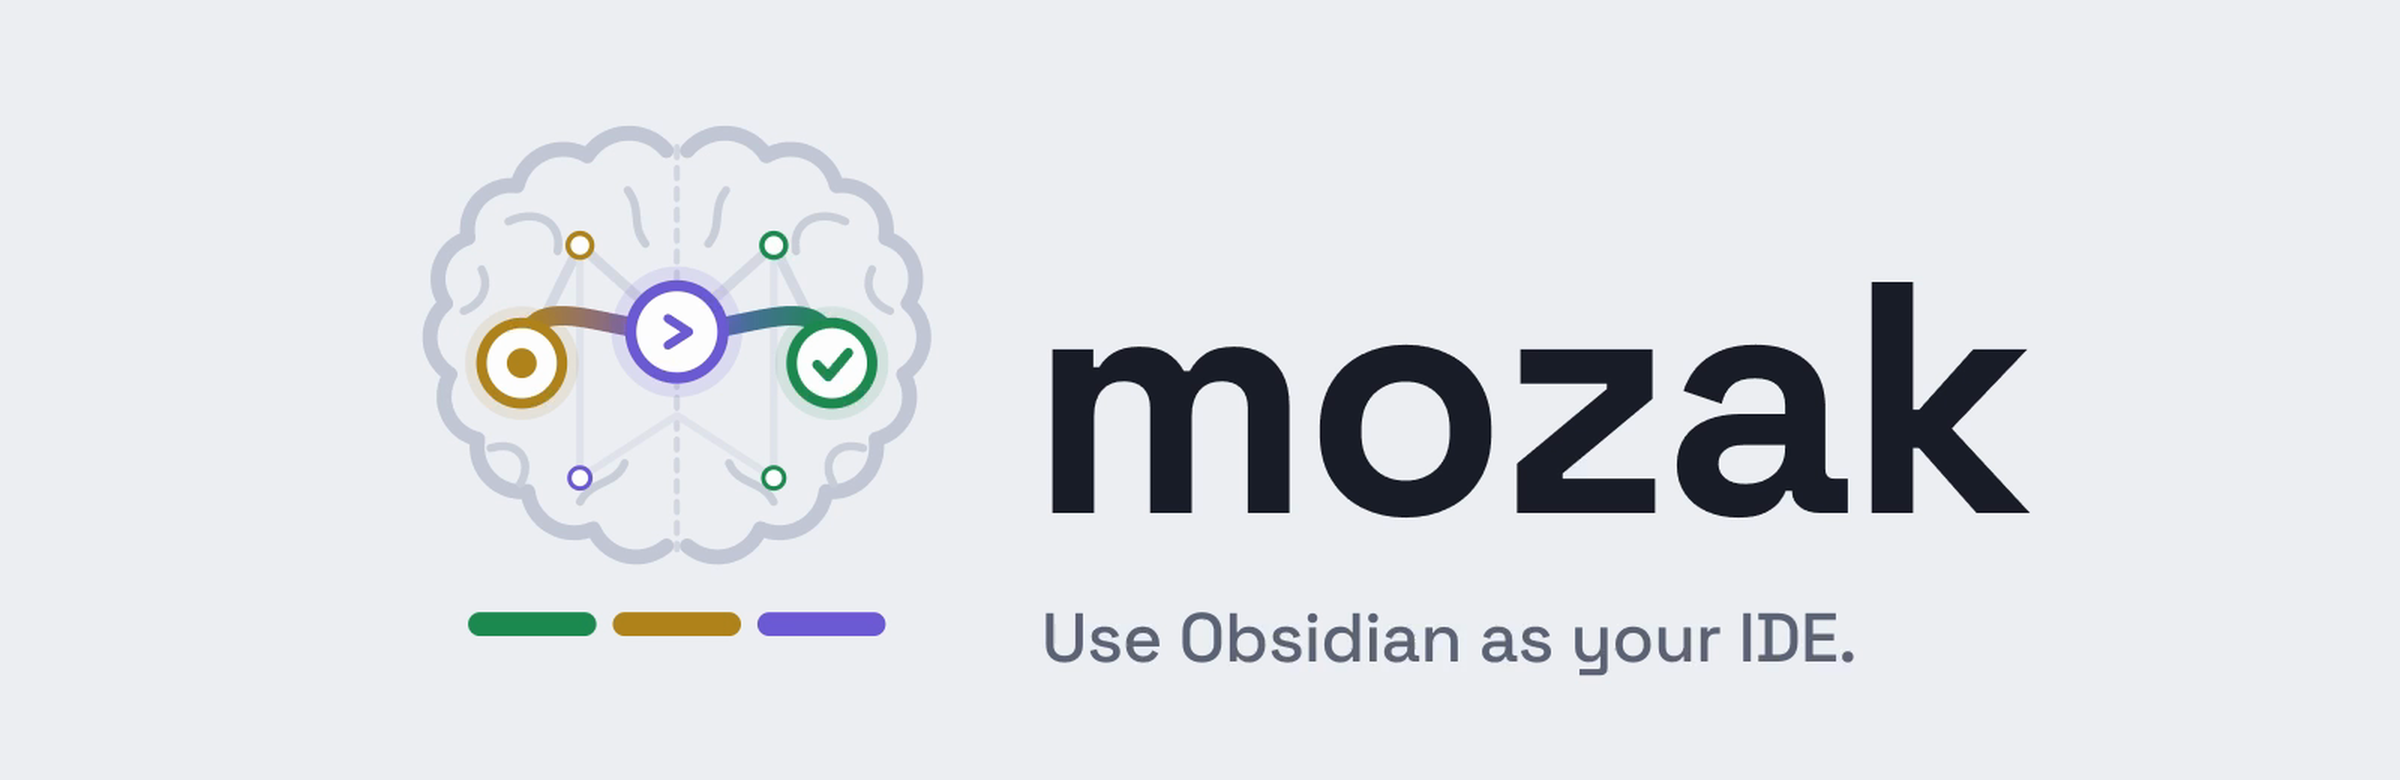
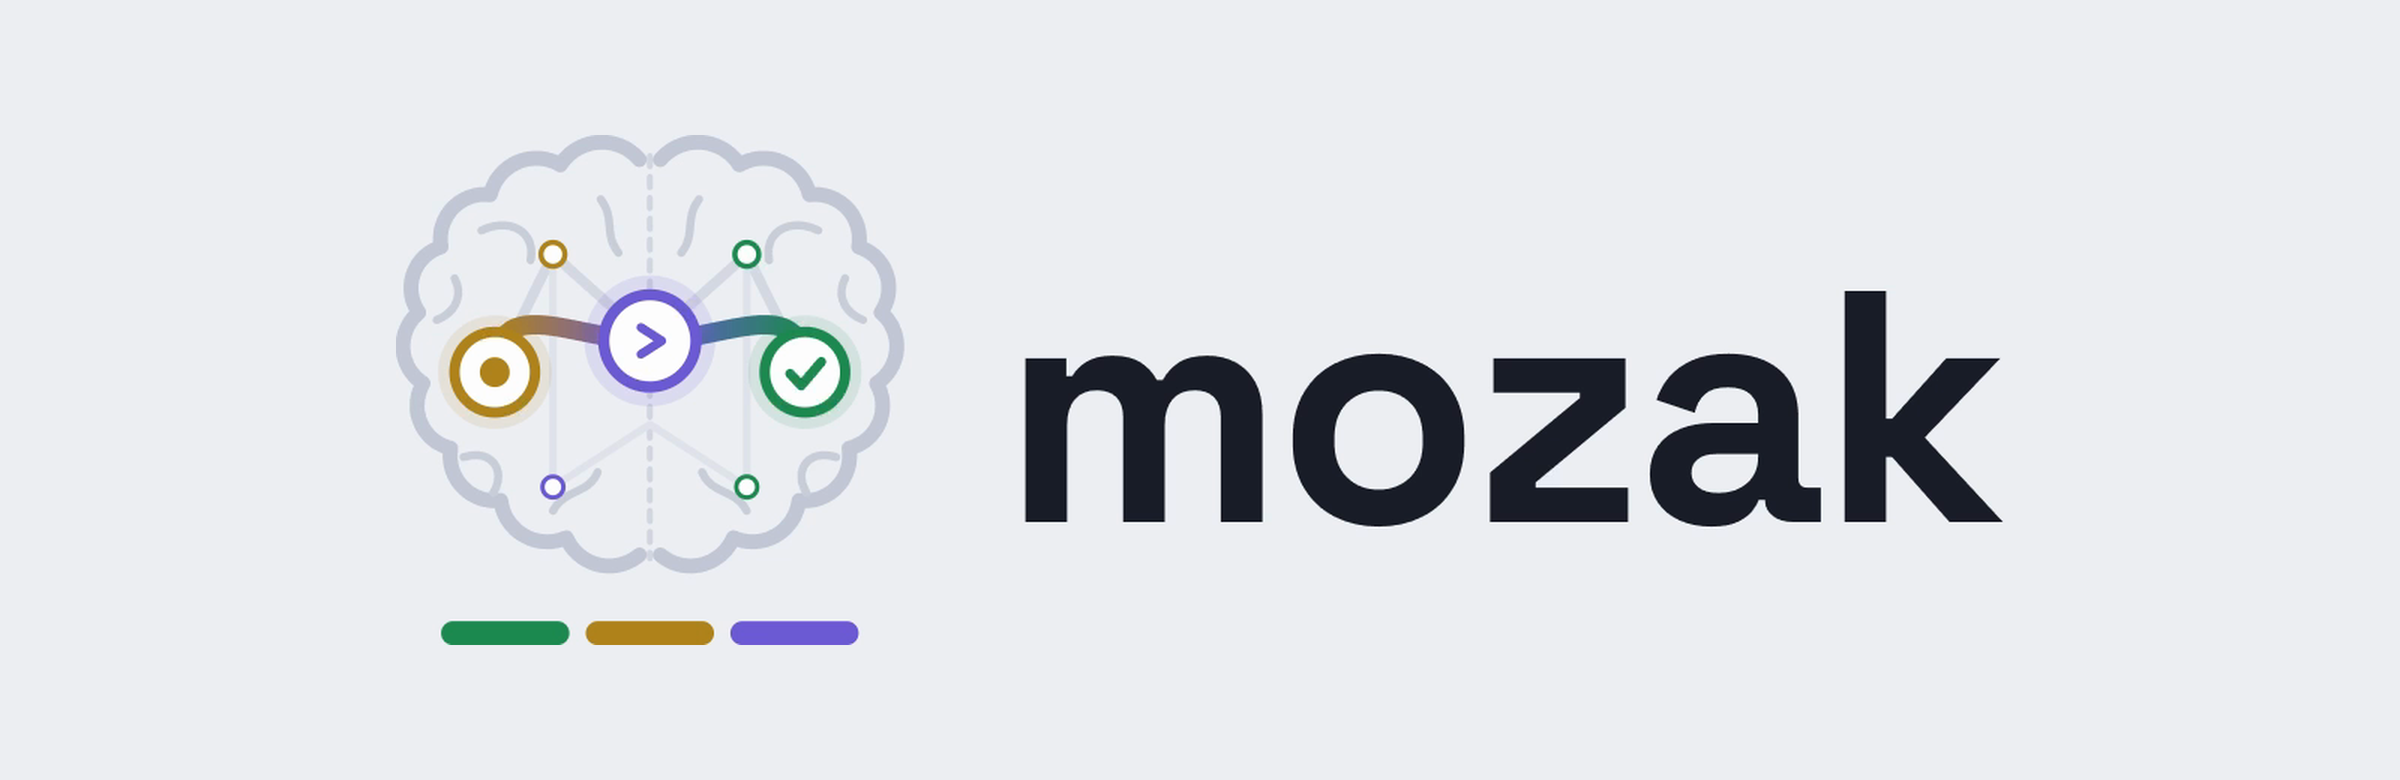
release: 0.4.3 (full-width hero, honest headline, npm README links)

Changed region(s): [[0.1562, 0.1538, 0.8438, 0.7385], [0.4375, 0.7692, 0.7812, 0.8615], [0.1875, 0.7692, 0.375, 0.8308]]

diff --git a/README.md b/README.md
@@ -1,8 +1,8 @@
 <div align="center">
 
-<img src="docs/assets/mozak-hero-wide.png" width="100%" alt="mozak logo: a brain with a gold, purple and green circuit, next to the word mozak and the line Use Obsidian as your IDE">
+<img src="docs/assets/mozak-hero-wide.png" width="100%" alt="mozak logo: a brain with a gold, purple and green circuit, next to the word mozak">
 
-**Use Obsidian as your IDE.**
+**One approved plan per project, shared by your coding agents, visible in Obsidian.**
 
 You work in ideas and plans, not code. Several agents share one plan without overwriting each other, and you follow their progress from your notes.
 

diff --git a/CHANGELOG.md b/CHANGELOG.md
@@ -2,6 +2,13 @@
 
 User-visible changes, newest first. Releases are git tags `vX.Y.Z` on `main`; `mozak upgrade` installs the newest one.
 
+## 0.4.3 (2026-10-21)
+
+### Changed
+
+- README: full-width hero banner, and the headline "Use Obsidian as your IDE" is replaced by "One approved plan per project, shared by your coding agents, visible in Obsidian." The Obsidian plugin is a read-only view, so the old line overclaimed.
+- npm package: README image and file links point to GitHub, so they work on npmjs.com.
+
 ## 0.4.2 (2026-10-21)
 
 ### Added

diff --git a/docs/brand.md b/docs/brand.md
@@ -2,7 +2,7 @@
 
 The name is always lowercase: **mozak** (Croatian for "brain"). Plan files are `mozak.json` and `mozak.md`.
 
-Headline: **Use Obsidian as your IDE.**
+Headline: **One approved plan per project, shared by your coding agents, visible in Obsidian.** (Until 0.4.2 it was "Use Obsidian as your IDE.", dropped because the Obsidian plugin is a read-only view, not an IDE.)
 
 ## Logo
 
